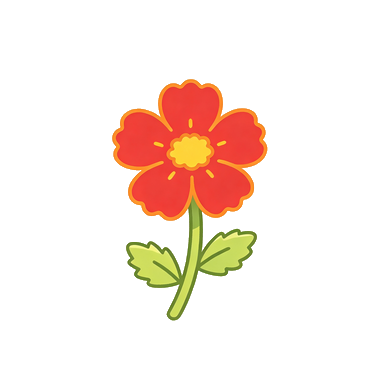
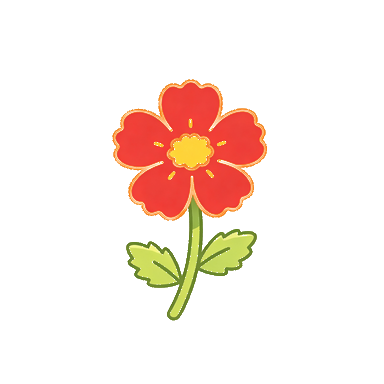
修白底、王子沿星球弧线走动、清除星球上文字

diff --git a/index.html b/index.html
@@ -785,18 +785,22 @@ function render() {
   // ── 小王子场景 ──
   if (state === 'prince') {
     var elapsed = Date.now() - princeTimer;
-    var t = elapsed / 1000;
+    var pr = flowerPlanet.r;
 
-    // 王子站在星球表面的目标位置
-    var princeEndX = fp.x - flowerPlanet.r + 8;
-
-    // 阶段0：从右侧走出来 (0-1000ms)
+    // 王子沿星球弧线走动：角度从右侧(40°)走到左侧(-15°)
+    var startAngle =  40 * M.PI / 180;
+    var endAngle   = -15 * M.PI / 180;
     var walkProgress = princePhase === 0 ? M.min(1, elapsed / 1000) : 1;
-    var princeX = fp.x + 50 + (princeEndX - (fp.x + 50)) * walkProgress;
-    var princeY = surfaceY; // 脚精确站在星球表面
+    // ease-out
+    walkProgress = 1 - M.pow(1 - walkProgress, 2);
+    var curAngle = startAngle + (endAngle - startAngle) * walkProgress;
 
-    // 新花朵位置
-    var newFlowerX = fp.x - flowerPlanet.r + 12 + plantedFlowers.length * 16;
+    // 弧线上位置：星球中心 + 半径偏移
+    var princeX = fp.x + M.sin(curAngle) * pr;
+    var princeY = fp.y - M.cos(curAngle) * pr;
+
+    // 新花朵位置（星球表面偏左）
+    var newFlowerX = fp.x - pr + 12 + plantedFlowers.length * 16;
 
     if (princePhase >= 1 && images.flower) {
       // 阶段1和2：新花朵出现并保留
@@ -815,7 +819,8 @@ function render() {
       ctx.globalAlpha = princeAlpha;
       ctx.save();
       ctx.translate(princeX, princeY);
-      // 脚在 translate 原点，身体在上方
+      // 身体沿径向站立（脚朝星球中心，头朝外）
+      ctx.rotate(curAngle);
       ctx.drawImage(images.prince, -22, -55, 44, 55);
       ctx.restore();
       ctx.globalAlpha = 1;
@@ -826,7 +831,7 @@ function render() {
     ctx.font = 'bold 13px sans-serif';
     ctx.textAlign = 'center';
     var msg = princePhase === 0 ? '🌹 小王子来了！' : princePhase === 1 ? '🌸 种下第' + (plantedFlowers.length + 1) + '朵小花' : '✨';
-    ctx.fillText(msg, fp.x, fp.y - flowerPlanet.r - 55);
+    ctx.fillText(msg, fp.x, fp.y - pr - 55);
   }
 
   // ── 宇宙垃圾 ──